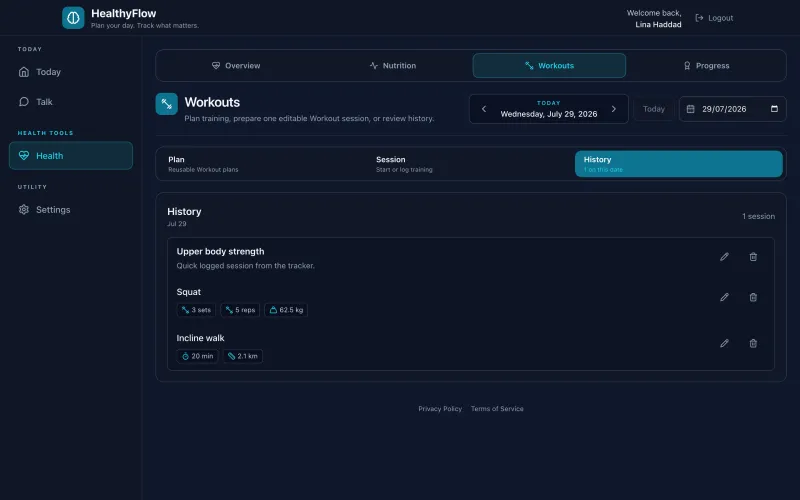
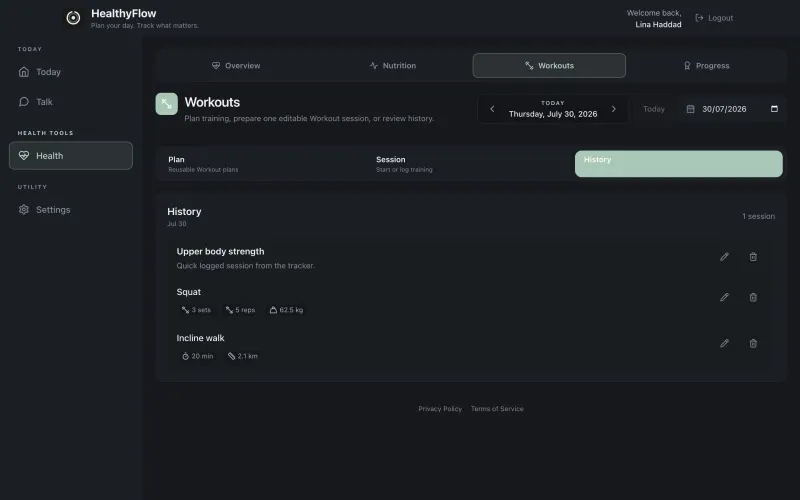
feat: capture and serve landing screenshots per theme

diff --git a/LEDGER.md b/LEDGER.md
@@ -1,3 +1,9 @@
+### 2026-07-30 16:56 — `claude/landing-page-screenshot-script-ad32b9`
+
+The landing page now shows the product in whichever theme the visitor is reading it in. `capture-landing-shots.mjs` shoots every surface twice, once per app theme, keeping the dark set on its existing filenames and suffixing the light set `-light`; `landing.html` carries both variants per screenshot and hides the mismatched one in CSS, so the swap follows the day/night toggle rather than just the OS preference. Both variants are lazy, which stops the hidden one being fetched, and the pre-paint script preloads the theme-correct hero to buy back the priority that costs. This commit adds the 18 new light assets and refreshes the 18 dark ones, which now carry today's seeded demo data.
+
+---
+
 ### 2026-07-30 14:45 — `main`
 
 Made the MCP transport accept ChatGPT's connector bootstrap format, which sends JSON as `application/octet-stream` while advertising a generic `Accept` header. Added a stable `/mcp/chatgpt` resource alias and matching OAuth discovery metadata so ChatGPT can refresh connector metadata without changing the existing MCP endpoint; regression coverage now exercises the exact request shape observed in production.
